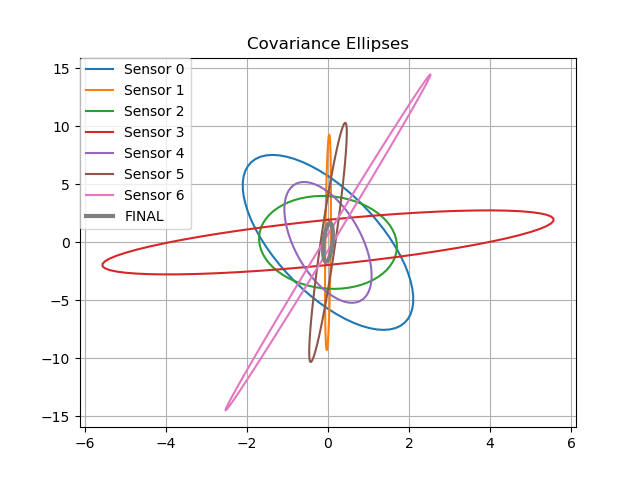
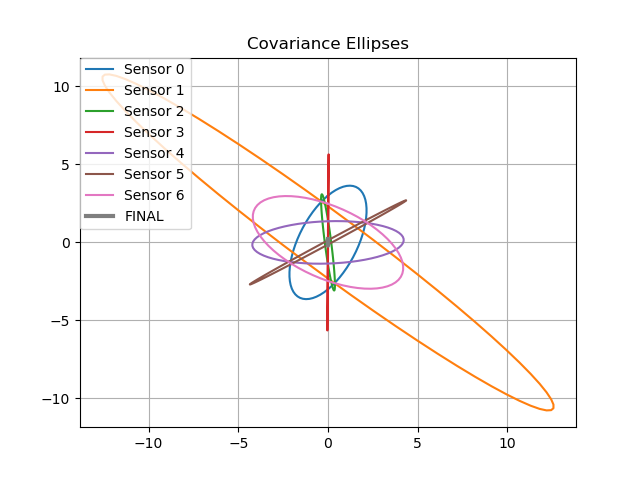
Uses 100 iterations for random sampling

diff --git a/decentralizedFusion.py b/decentralizedFusion.py
@@ -70,7 +70,7 @@ def covarianceIntersection(sensor_readings, sensor_covariances, N_time_steps, ne
             for k in neighbors[j][0]:
                 mu_s.append(sensor_readings[k])
                 cov_s.append(sensor_covariances[k])
-            sensor_readings[j], sensor_covariances[j] = find_optimal_cov_and_mu(5, mu_s, cov_s)
+            sensor_readings[j], sensor_covariances[j] = find_optimal_cov_and_mu(100, mu_s, cov_s)
             if(calculate_KL):
                 dist = multivariate_normal(sensor_readings[j], sensor_covariances[j])
                 KL_div[j].append(compute_KL(true_dist, dist, KL_inp))
